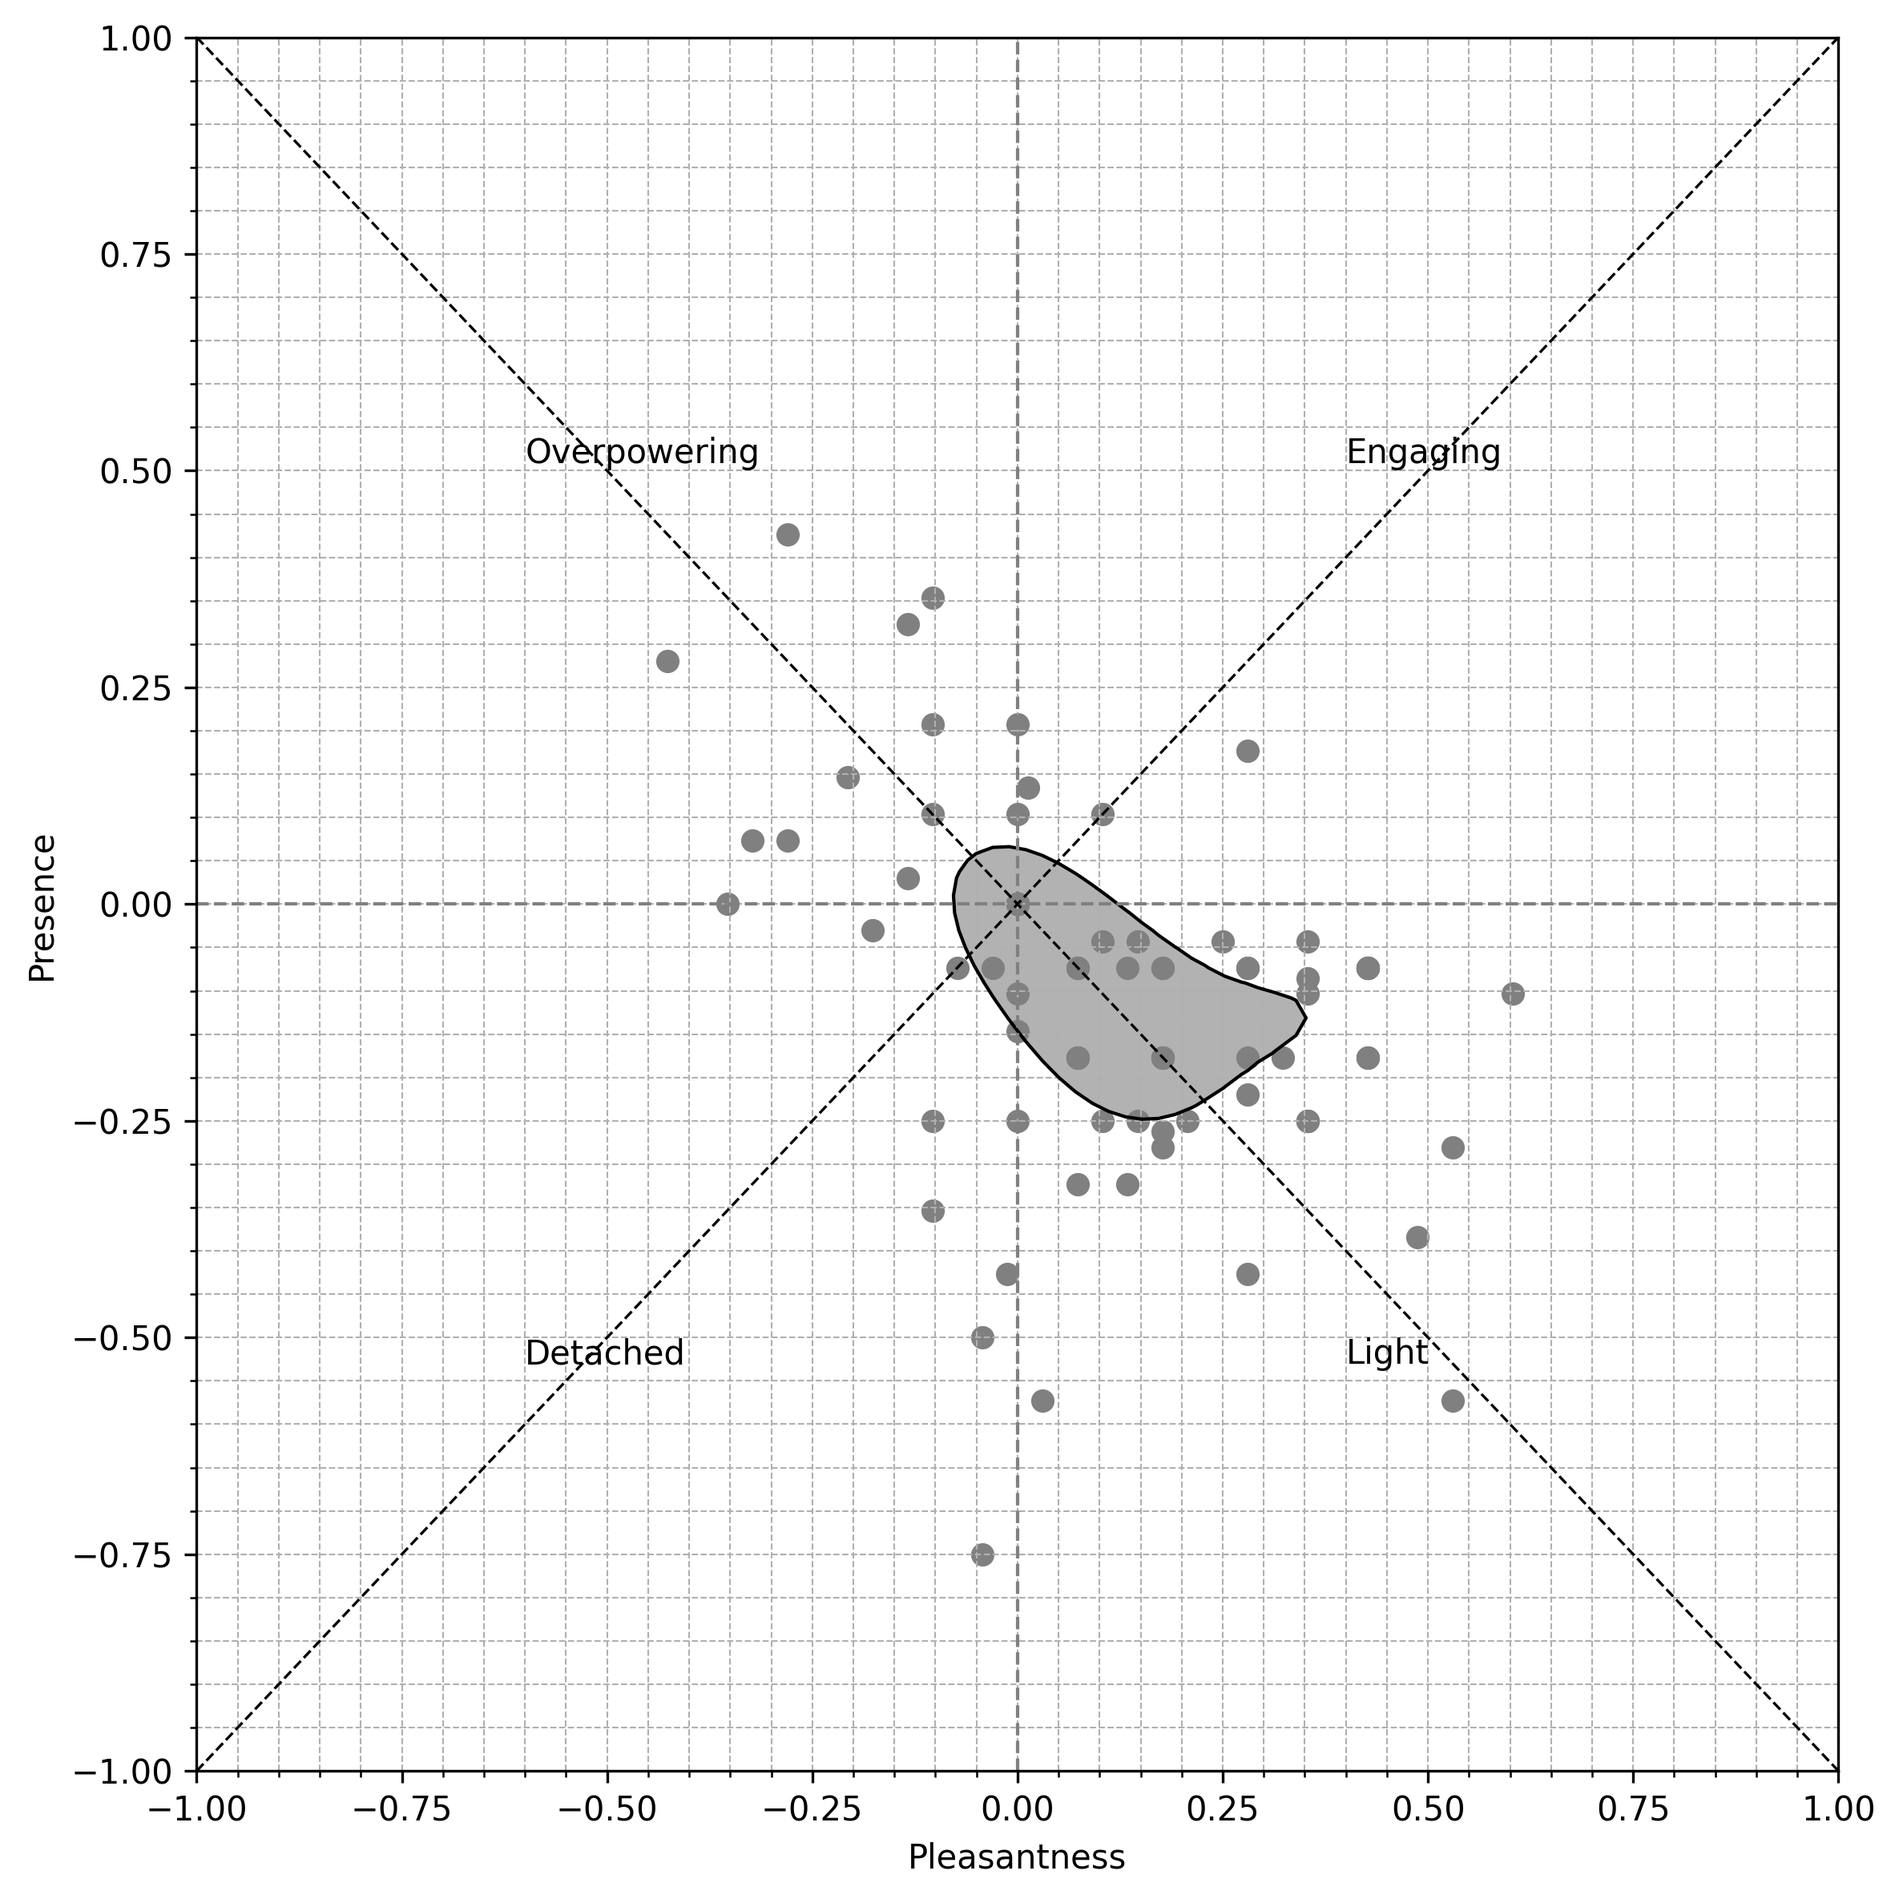
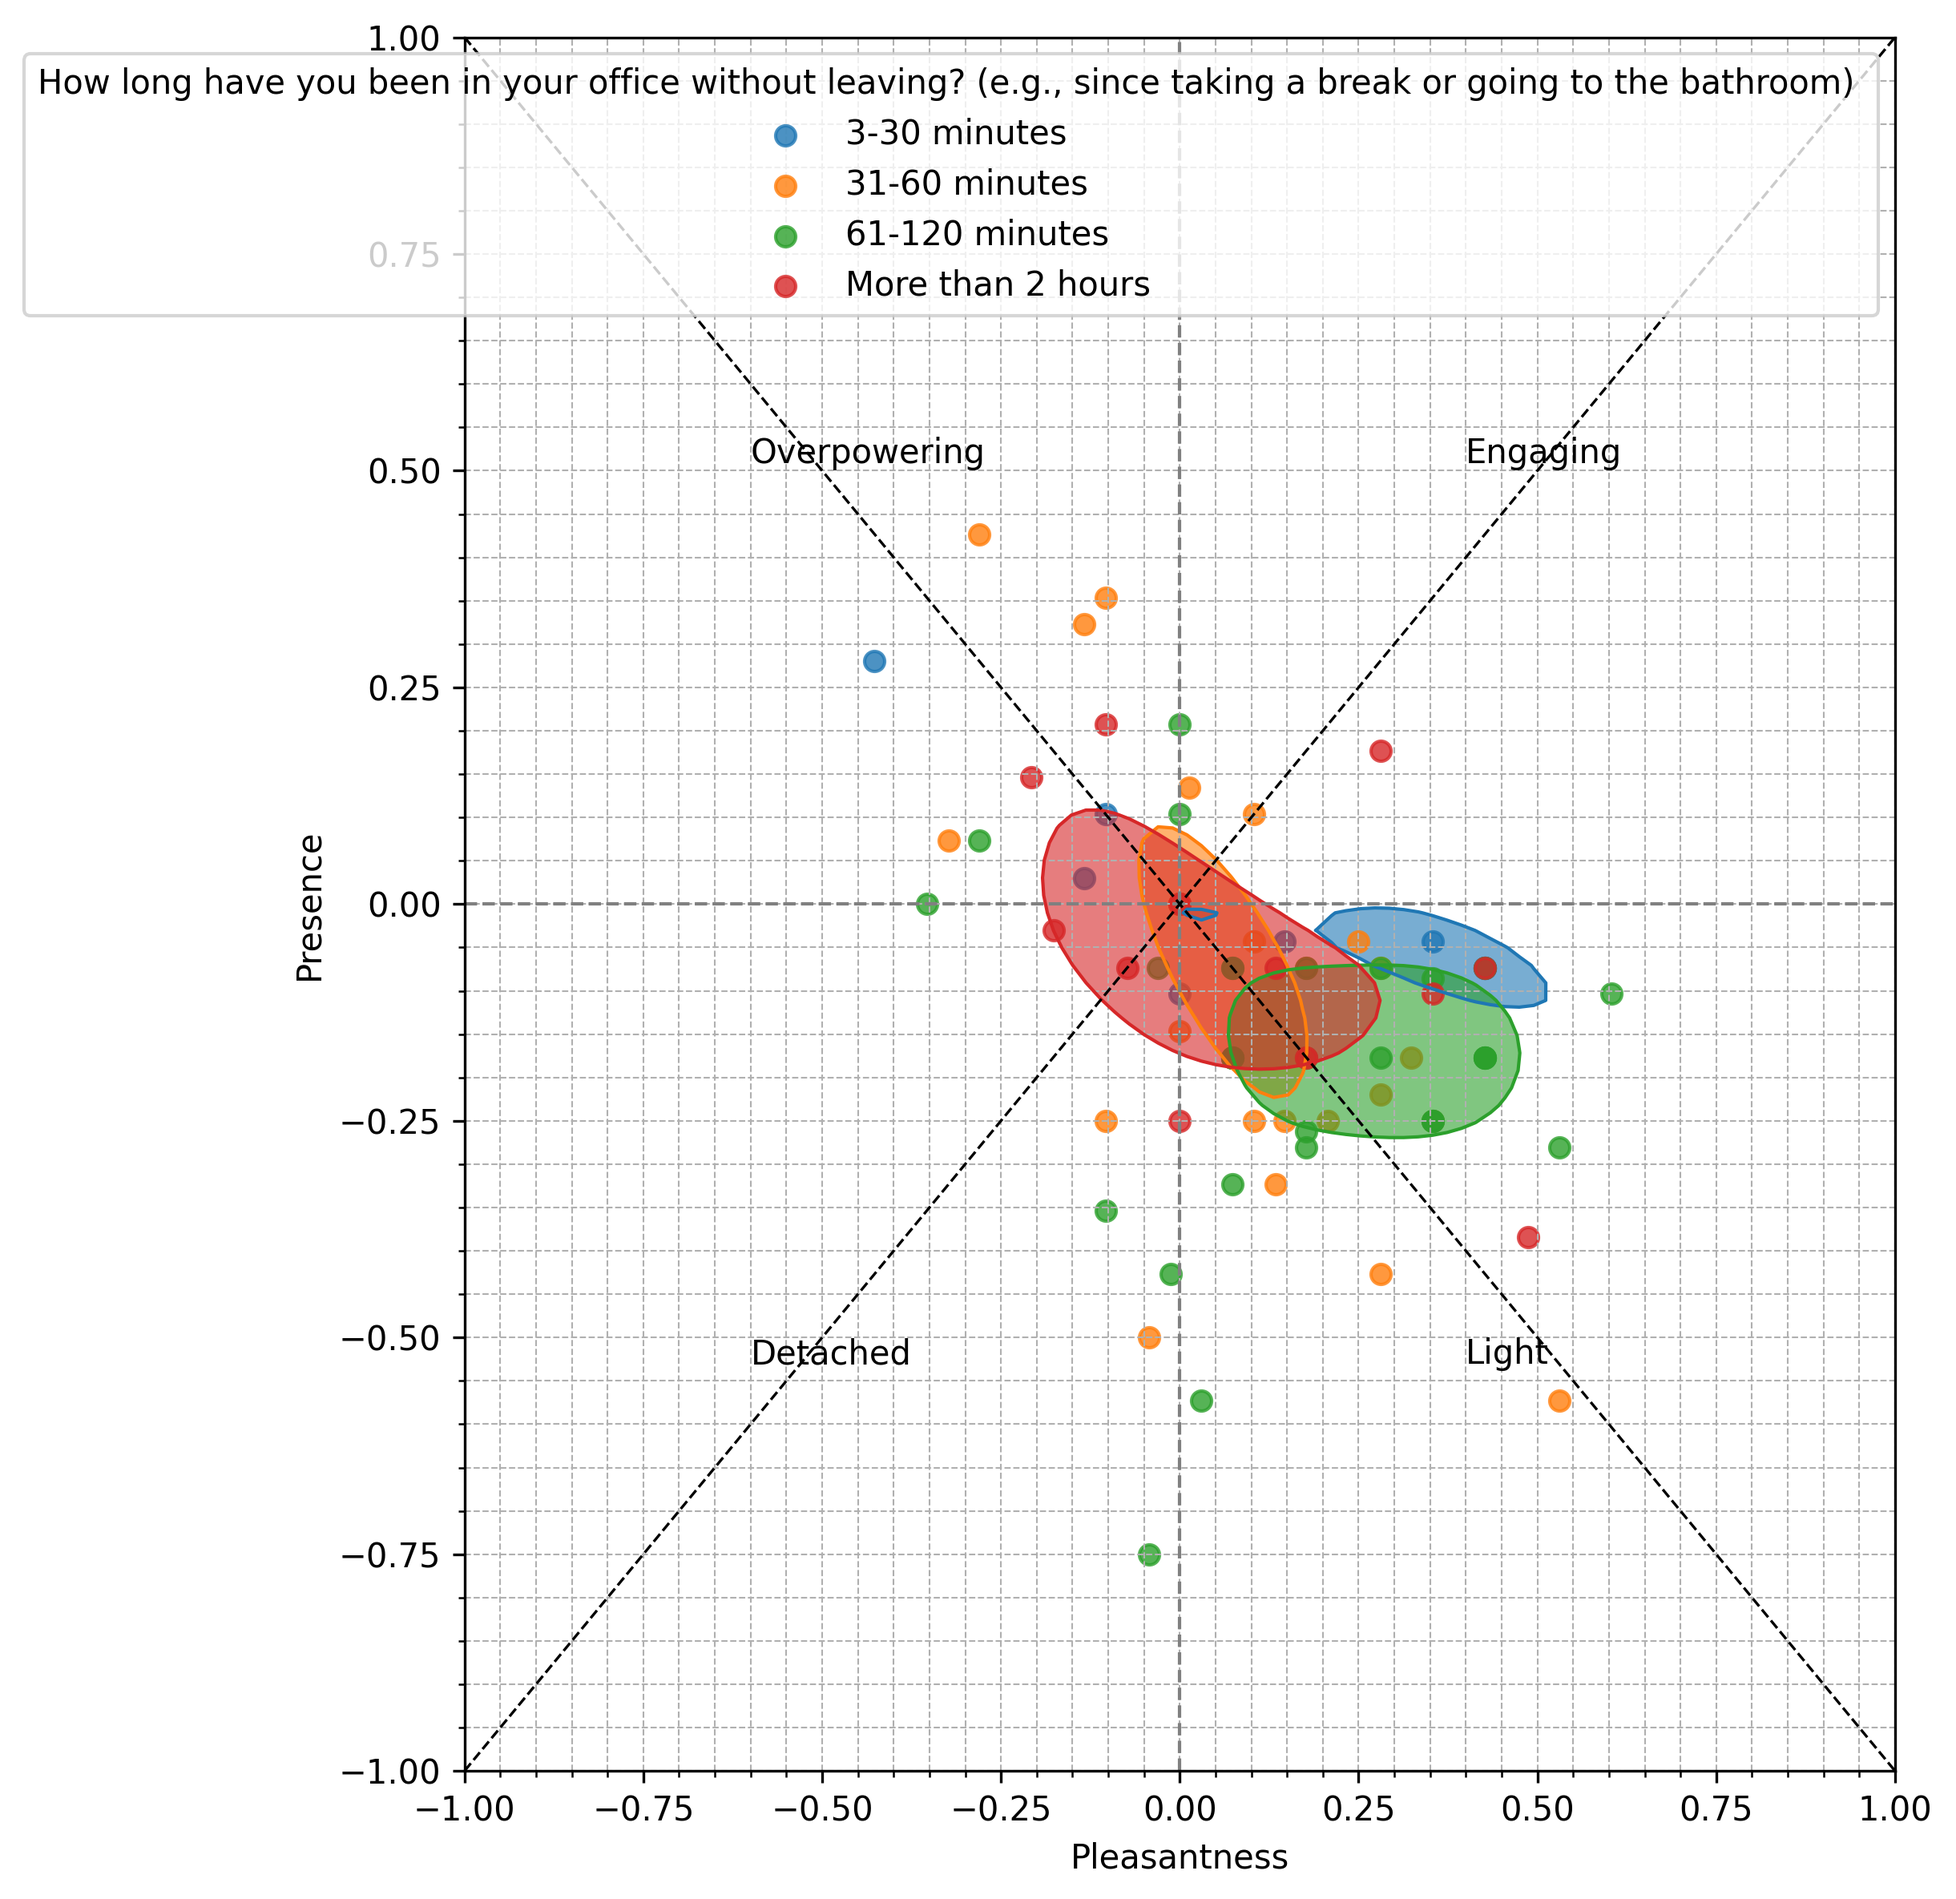
update plot functions

diff --git a/src/smellscapy/plotting/joint.py b/src/smellscapy/plotting/joint.py
@@ -3,58 +3,126 @@ import matplotlib.pyplot as plt
 from scipy.stats import gaussian_kde
 from smellscapy.calculations import calculate_pleasantness, calculate_presence
 
-def plot_joint(df, xlim=(-1, 1), ylim=(-1, 1)):
 
-    plt.figure(figsize=(8, 8))
-    x = df['pleasantness_score'].values
-    y = df['presence_score'].values
+def plot_joint(df, **kwargs):
+    # Dizionario dei parametri di default
+    params = {
+        "xlim": (-1, 1),
+        "ylim": (-1, 1),
+        "figsize": (8, 8),
+        "point_alpha": 0.8,
+        "point_color": "grey",
+        "xlabel": "Pleasantness",
+        "ylabel": "Presence",
+        "axis_line_color": "grey",
+        "axis_line_style": "--",
+        "axis_line_width": 1,
+        "contour_alpha": 0.6,
+        "contour_color": "black",
+        "contour_width": 1,
+        "diag_color": "black",
+        "diag_style": "--",
+        "diag_width": 0.8,
+        "labels": {
+            "overpowering": {"pos": (-0.6, 0.5), "text": "Overpowering"},
+            "detached": {"pos": (-0.6, -0.5), "text": "Detached"},
+            "engaging": {"pos": (0.4, 0.5), "text": "Engaging"},
+            "light": {"pos": (0.4, -0.5), "text": "Light"},
+        },
+        "fontsize": 10,
+        "savefig": True,
+        "filename": "joint_plot.png",
+        "dpi": 300,
+        "group_col": None
+    }
 
-    # Calculate density with KDE
-    xy = np.vstack([x, y])
-    kde = gaussian_kde(xy)
-    z = kde(xy)
+    # Aggiornamento con i kwargs passati dall'utente
+    for key, value in kwargs.items():
+        if key in params and isinstance(params[key], dict) and isinstance(value, dict):
+            params[key].update(value)  # merge dict (es. labels)
+        else:
+            params[key] = value
 
-    # Calculate 50% density
-    z_sorted = np.sort(z)
-    cdf = np.cumsum(z_sorted)
-    cdf /= cdf[-1]
-    z_50 = z_sorted[np.searchsorted(cdf, 0.5)]
+    plt.figure(figsize=params["figsize"])
 
-    # Contour grid
-    xi, yi = np.mgrid[
-        xlim[0]:xlim[1]:100j,
-        ylim[0]:ylim[1]:100j
-    ]
-    zi = kde(np.vstack([xi.ravel(), yi.ravel()])).reshape(xi.shape)
+    # Funzione helper per plottare un gruppo
+    def plot_group(x, y, label=None, color=None):
+        xy = np.vstack([x, y])
+        kde = gaussian_kde(xy)
+        z = kde(xy)
 
-    # Contour 50° percentile
-    plt.contourf(xi, yi, zi, levels=[z_50, zi.max()], colors=['grey'], alpha=0.6)
-    plt.contour(xi, yi, zi, levels=[z_50], colors='black', linewidths=1)
+        # 50% density threshold
+        z_sorted = np.sort(z)
+        cdf = np.cumsum(z_sorted)
+        cdf /= cdf[-1]
+        z_50 = z_sorted[np.searchsorted(cdf, 0.5)]
 
-    plt.scatter(x, y, color='grey')    
+        # Grid
+        xi, yi = np.mgrid[
+            params["xlim"][0]:params["xlim"][1]:100j,
+            params["ylim"][0]:params["ylim"][1]:100j
+        ]
+        zi = kde(np.vstack([xi.ravel(), yi.ravel()])).reshape(xi.shape)
 
-    plt.xlim(xlim)
-    plt.ylim(ylim)
-    plt.xlabel('Pleasantness')
-    plt.ylabel('Presence')
-    plt.axhline(0, color='grey', linestyle='--', linewidth=1)
-    plt.axvline(0, color='grey', linestyle='--', linewidth=1)
+        # Contour 50° percentile
+        plt.contourf(xi, yi, zi, levels=[z_50, zi.max()],
+                     colors=[color if color else params["point_color"]],
+                     alpha=params["contour_alpha"])
+        plt.contour(xi, yi, zi, levels=[z_50],
+                    colors=color if color else params["contour_color"],
+                    linewidths=params["contour_width"])
 
-    # Diagonal lines
-    x_vals = np.linspace(xlim[0], xlim[1], 200)
-    plt.plot(x_vals, x_vals, linestyle='--', color='black', linewidth=0.8)
-    plt.plot(x_vals, -x_vals, linestyle='--', color='black', linewidth=0.8)
+        # Scatter
+        plt.scatter(x, y, color=color if color else params["point_color"],
+                    alpha=params["point_alpha"], label=label)
 
-    # Diagonal lines text
-    plt.text(-0.6, 0.5, 'Overpowering', ha='left', va='bottom', fontsize=10)
-    plt.text(-0.6, -0.5, 'Detached', ha='left', va='top', fontsize=10)
-    plt.text(0.4, 0.5, 'Engaging', ha='left', va='bottom', fontsize=10)
-    plt.text(0.4, -0.5, 'Light', ha='left', va='top', fontsize=10)
+    # Se c'è suddivisione per gruppi
+    if params["group_col"] is not None and params["group_col"] in df.columns:
+        import itertools
+        colors = itertools.cycle(plt.cm.tab10.colors)
+        groups = df.groupby(params["group_col"])
+        for name, group in groups:
+            color = next(colors)
+            plot_group(group['pleasantness_score'].values,
+                       group['presence_score'].values,
+                       label=str(name),
+                       color=color)
+        plt.legend(title=params["group_col"])
+    else:
+        x = df['pleasantness_score'].values
+        y = df['presence_score'].values
+        plot_group(x, y)
 
+    # Assi e titoli
+    plt.xlim(params["xlim"])
+    plt.ylim(params["ylim"])
+    plt.xlabel(params["xlabel"])
+    plt.ylabel(params["ylabel"])
+    plt.axhline(0, color=params["axis_line_color"],
+                linestyle=params["axis_line_style"],
+                linewidth=params["axis_line_width"])
+    plt.axvline(0, color=params["axis_line_color"],
+                linestyle=params["axis_line_style"],
+                linewidth=params["axis_line_width"])
+
+    # Diagonali
+    x_vals = np.linspace(params["xlim"][0], params["xlim"][1], 200)
+    plt.plot(x_vals, x_vals, linestyle=params["diag_style"],
+             color=params["diag_color"], linewidth=params["diag_width"])
+    plt.plot(x_vals, -x_vals, linestyle=params["diag_style"],
+             color=params["diag_color"], linewidth=params["diag_width"])
+
+    # Etichette
+    for lbl in params["labels"].values():
+        plt.text(lbl["pos"][0], lbl["pos"][1], lbl["text"],
+                 ha='left', va='bottom' if lbl["pos"][1] > 0 else 'top',
+                 fontsize=params["fontsize"])
 
     plt.minorticks_on()
     plt.grid(True, which='both', linestyle='--', linewidth=0.5)
     plt.tight_layout()
 
-    plt.savefig("joint_plot.png", dpi=300, bbox_inches='tight')
-    plt.show()   
+    if params["savefig"]:
+        plt.savefig(params["filename"], dpi=params["dpi"], bbox_inches='tight')
+
+    plt.show()

diff --git a/src/main.py b/src/main.py
@@ -4,7 +4,7 @@ import pandas as pd
 from importlib import resources
 from smellscapy.calculations import calculate_pleasantness, calculate_presence
 from smellscapy.plotting.scatter import plot_scatter
-from smellscapy.plotting.simple_density import plot_50percentile
+from smellscapy.plotting.simple_density import plot_simple_density
 from smellscapy.plotting.joint import plot_joint
 
 
@@ -33,11 +33,14 @@ plot_scatter(df)
 
 #plot_scatter(df, group_col = "LocationID")
 
-plot_density(df)
+plot_simple_density(df)
 
-#plot_density(df, group_col = "LocationID")
+#plot_simple_density(df, group_col = "LocationID")
 
 plot_joint(df)
+
+#plot_joint(df, group_col = "How long have you been in your office without leaving? (e.g., since taking a break or going to the bathroom) ")
+    
     
 print(df)
 

diff --git a/src/smellscapy/plotting/simple_density.py b/src/smellscapy/plotting/simple_density.py
@@ -4,7 +4,7 @@ from scipy.stats import gaussian_kde
 from smellscapy.calculations import calculate_pleasantness, calculate_presence
 
 
-def plot_density(df, **kwargs):
+def plot_simple_density(df, **kwargs):
     
     # Default parameters
     params = {
@@ -31,7 +31,7 @@ def plot_density(df, **kwargs):
         },
         "fontsize": 10,
         "savefig": True,
-        "filename": "density_plot.png",
+        "filename": "simple_density_plot.png",
         "dpi": 300,
         "group_col": None   # column used to divide the dataset
     }
